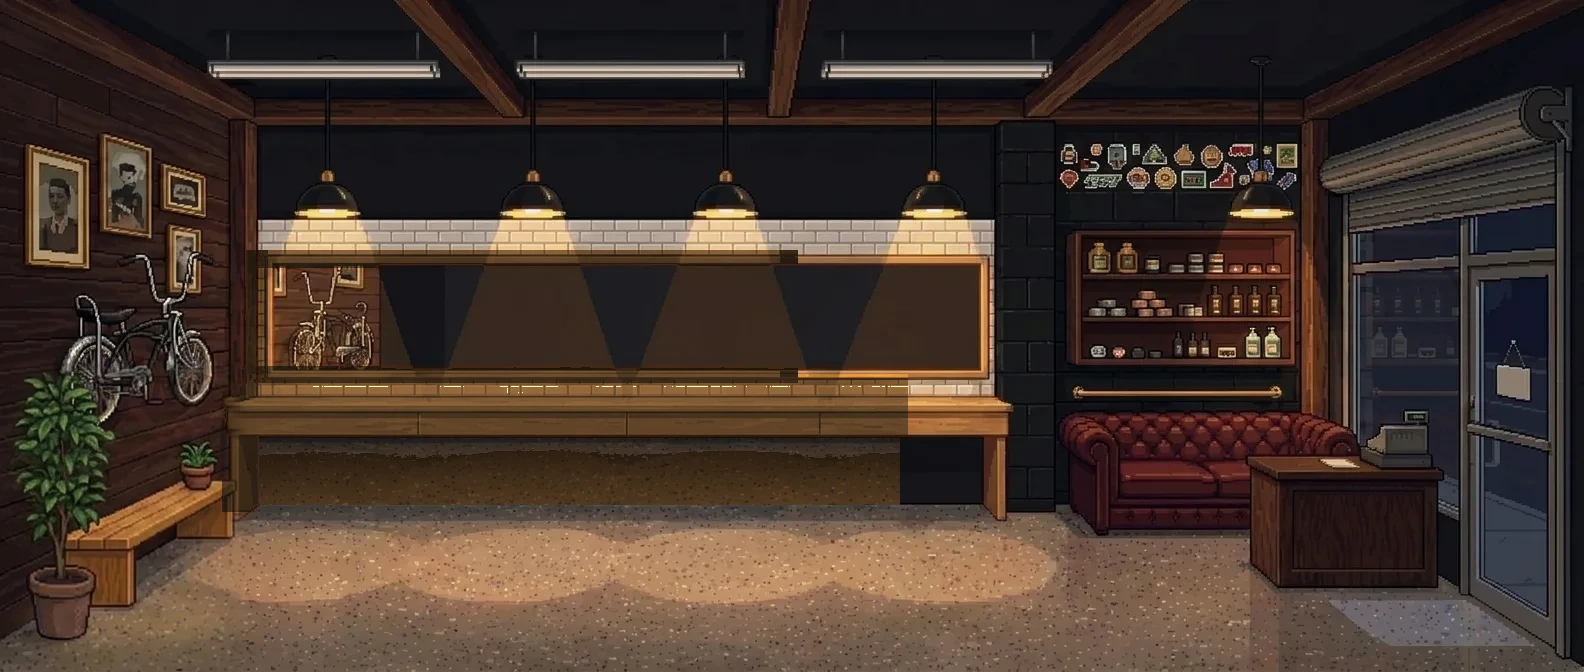
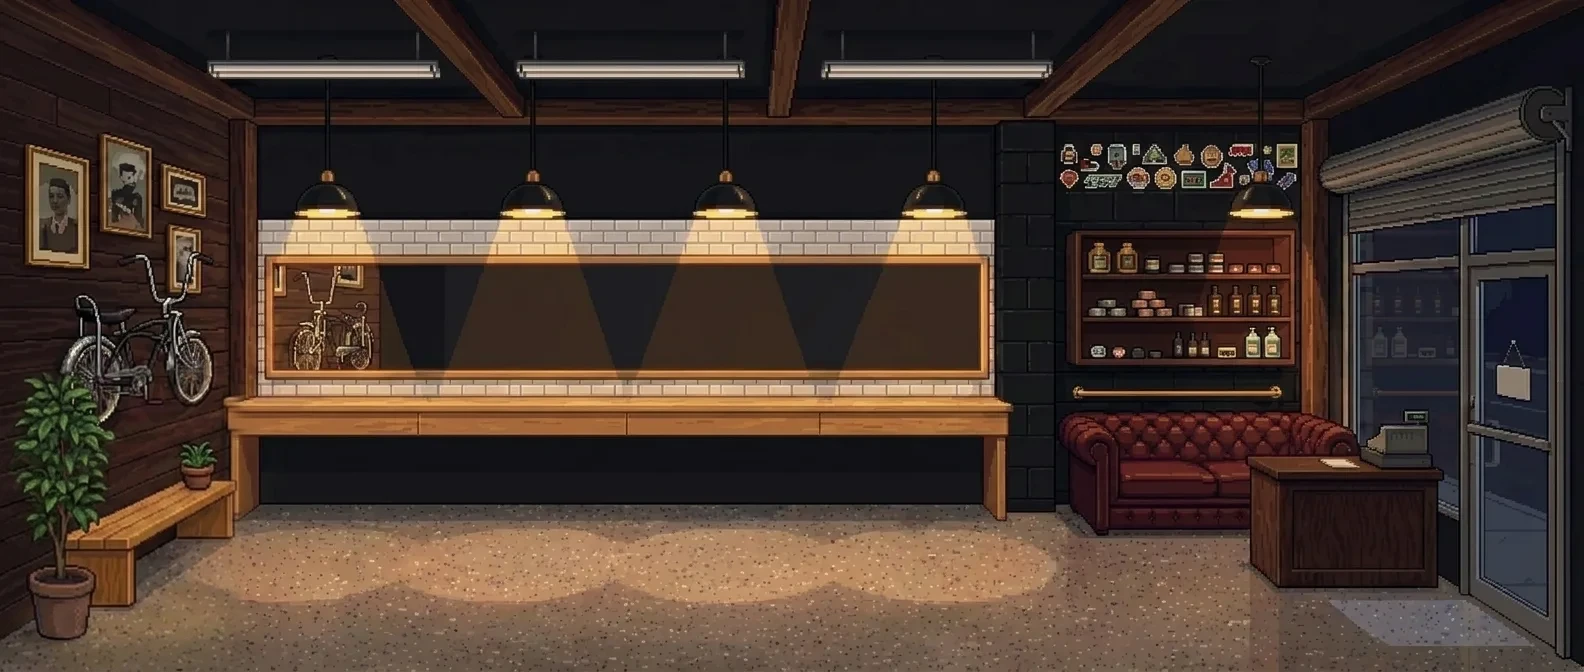
Living Shop v2 lite: original room untouched + plant corner, bench seat and reclining massage chair kept

Changed region(s): [[0.1237, 0.375, 0.5878, 0.7812]]

diff --git a/site/assets/living-shop.js b/site/assets/living-shop.js
@@ -45,7 +45,7 @@
 
   // Two rooms, one engine: landscape for desktop, a portrait recomposition
   // for phones (fills the screen, no zoom/pan). Anchors are per-layout.
-  var ROOM_V2 = false; // Jett's 2026-06-11 refresh: honey bench, left plant corner, sprite massage chair (reclines). false = original room.
+  var ROOM_V2 = true; // Jett's 2026-06-11 refresh: honey bench, left plant corner, sprite massage chair (reclines). false = original room.
   var LAYOUTS = {
     landscape: {
       room: ROOM_V2 ? 'room-v2' : 'room', W: 1584, H: 672,
@@ -98,7 +98,7 @@
     var im = new Image();
     im.onload = function () { if (++loaded === toLoad.length) start(); };
     im.onerror = function () { failed = true; };
-    im.src = A + n + '.webp?v=15';
+    im.src = A + n + '.webp?v=16';
     IMGS[n] = im;
   });
 

diff --git a/site/index.html b/site/index.html
@@ -108,7 +108,7 @@
     <button class="ls-reveal" aria-expanded="false" aria-controls="live-wait" hidden>Wait times &amp; booking <span class="chev">&#9662;</span></button>
   </div>
 </section>
-<script src="assets/living-shop.js?v=51" defer></script>
+<script src="assets/living-shop.js?v=52" defer></script>
 
 <!-- ============ LIVE WAIT (Living Shop Phase 1 — feature-flagged) ============ -->
 <section class="live-wait" id="live-wait" hidden aria-label="Live wait time">